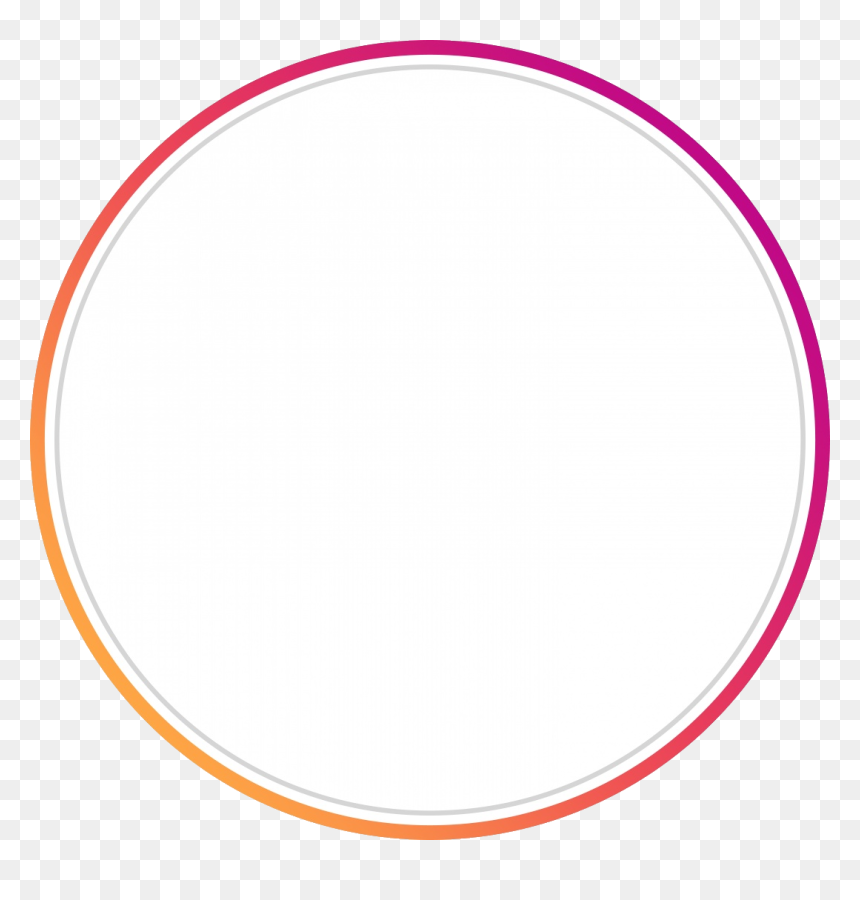
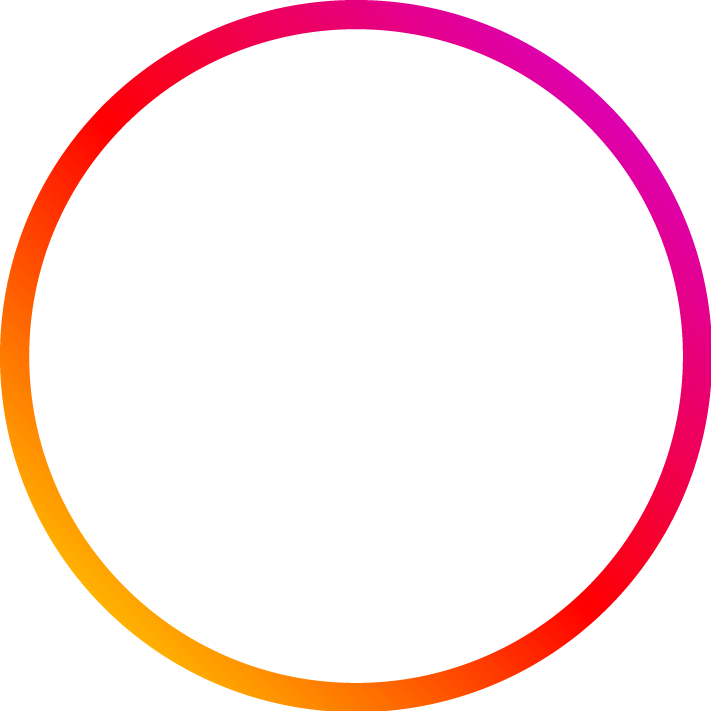
barre stories créée et noms des assets changés

Changed region(s): [[0.0, 0.0, 1.0, 1.0]]

diff --git a/lib/story_widget.dart b/lib/story_widget.dart
@@ -1,0 +1,70 @@
+import 'package:flutter/material.dart';
+
+class StoryWidget extends StatelessWidget {
+  StoryWidget({super.key});
+
+  final List storyItems = [
+    {
+      "pseudo": "lady.gaga",
+      "photo": "assets/images/profil/photo-1.jpg",
+    },
+    {
+      "pseudo": "zidane",
+      "photo": "assets/images/profil/photo-2.jpg",
+    },
+    {
+      "pseudo": "zlatan",
+      "photo": "assets/images/profil/photo-3.jpg",
+    },
+    {
+      "pseudo": "kanye.west",
+      "photo": "assets/images/profil/photo-4.jpg",
+    },
+    {
+      "pseudo": "madonna",
+      "photo": "assets/images/profil/photo-5.jpg",
+    },
+    {
+      "pseudo": "jay.z",
+      "photo": "assets/images/profil/photo-6.jpg",
+    },
+  ];
+
+  @override
+  Widget build(BuildContext context) {
+    return SingleChildScrollView(
+      scrollDirection: Axis.horizontal,
+      child: Row(
+        children: storyItems.map((story) {
+          return Container(
+            margin: const EdgeInsets.symmetric(horizontal: 5),
+            child: Column(
+              children: [
+                Stack(
+                  alignment: Alignment.center,
+                  children: [
+                    Image.asset(
+                      'assets/images/insta-story.png',
+                      height: 68,
+                    ),
+                    CircleAvatar(
+                      backgroundColor: Colors.white,
+                      radius: 30,
+                      backgroundImage: AssetImage(story["photo"]),
+                    ),
+                  ],
+                ),
+                const SizedBox(height: 8),
+                Text(
+                  story['pseudo'],
+                  maxLines: 1,
+                  style: const TextStyle(fontSize: 12),
+                ),
+              ],
+            ),
+          );
+        }).toList(),
+      ),
+    );
+  }
+}

diff --git a/lib/main.dart b/lib/main.dart
@@ -1,4 +1,6 @@
 import 'package:flutter/material.dart';
+import 'package:instadesignflutter/post_widget.dart';
+import 'package:instadesignflutter/story_widget.dart';
 
 void main() {
   runApp(const MyApp());
@@ -38,8 +40,13 @@ class MyApp extends StatelessWidget {
             ),
           ],
         ),
-        body: Container(
-          color: Colors.blue,
+        body: SingleChildScrollView(
+          child: Column(
+            children: [
+              StoryWidget(),
+              const PostWidget(),
+            ],
+          ),
         ),
         bottomNavigationBar: BottomNavigationBar(
           selectedItemColor: Colors.black,

diff --git a/lib/post_widget.dart b/lib/post_widget.dart
@@ -1,0 +1,13 @@
+import 'package:flutter/material.dart';
+
+class PostWidget extends StatelessWidget {
+  const PostWidget({super.key});
+
+  @override
+  Widget build(BuildContext context) {
+    return Container(
+      height: 1000,
+      color: Colors.red,
+    );
+  }
+}
